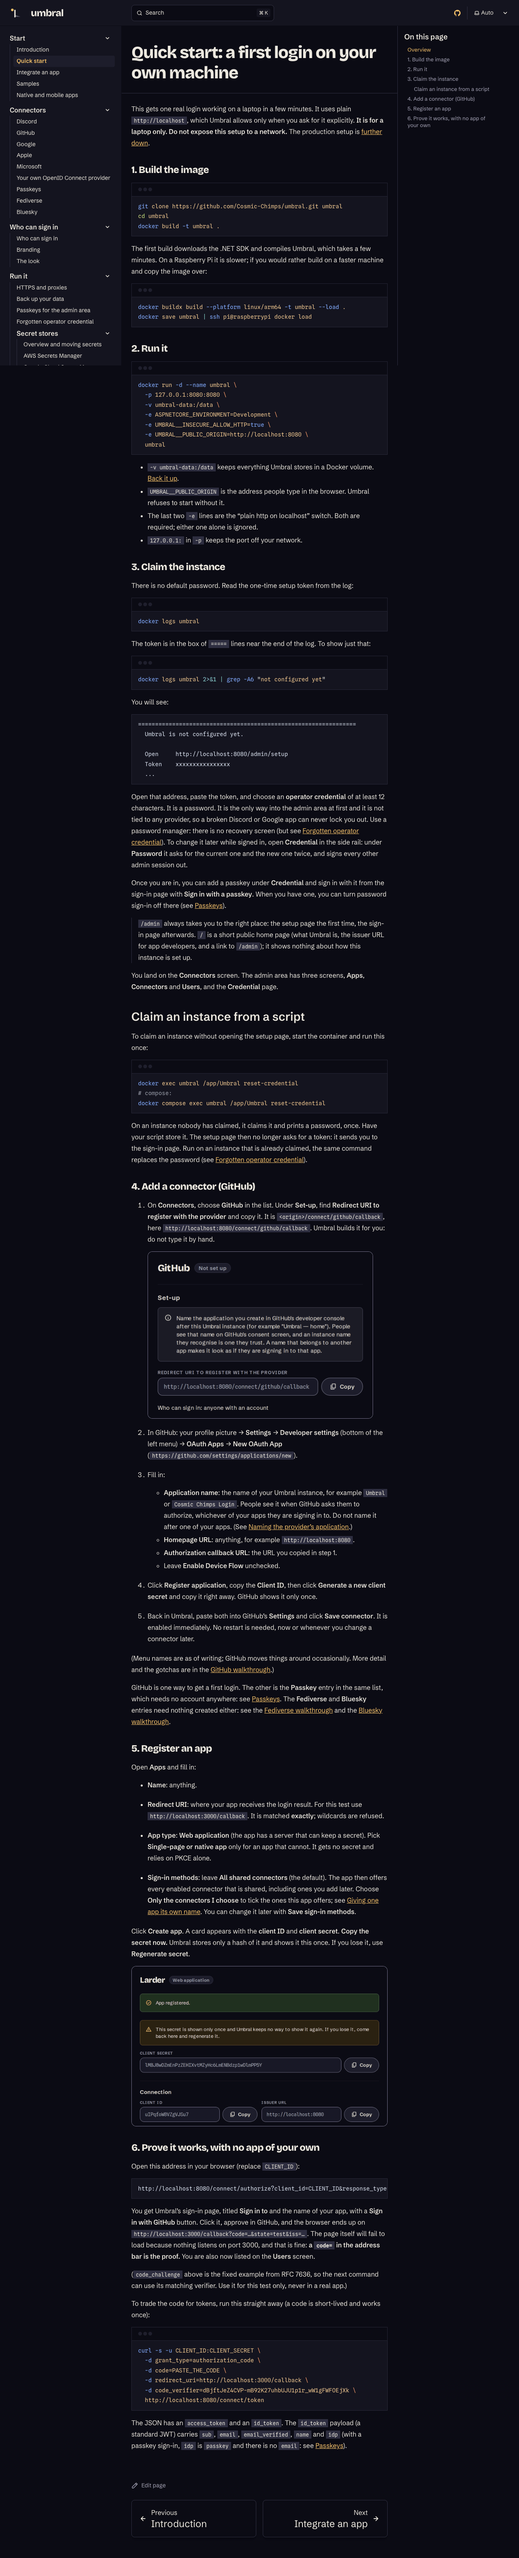
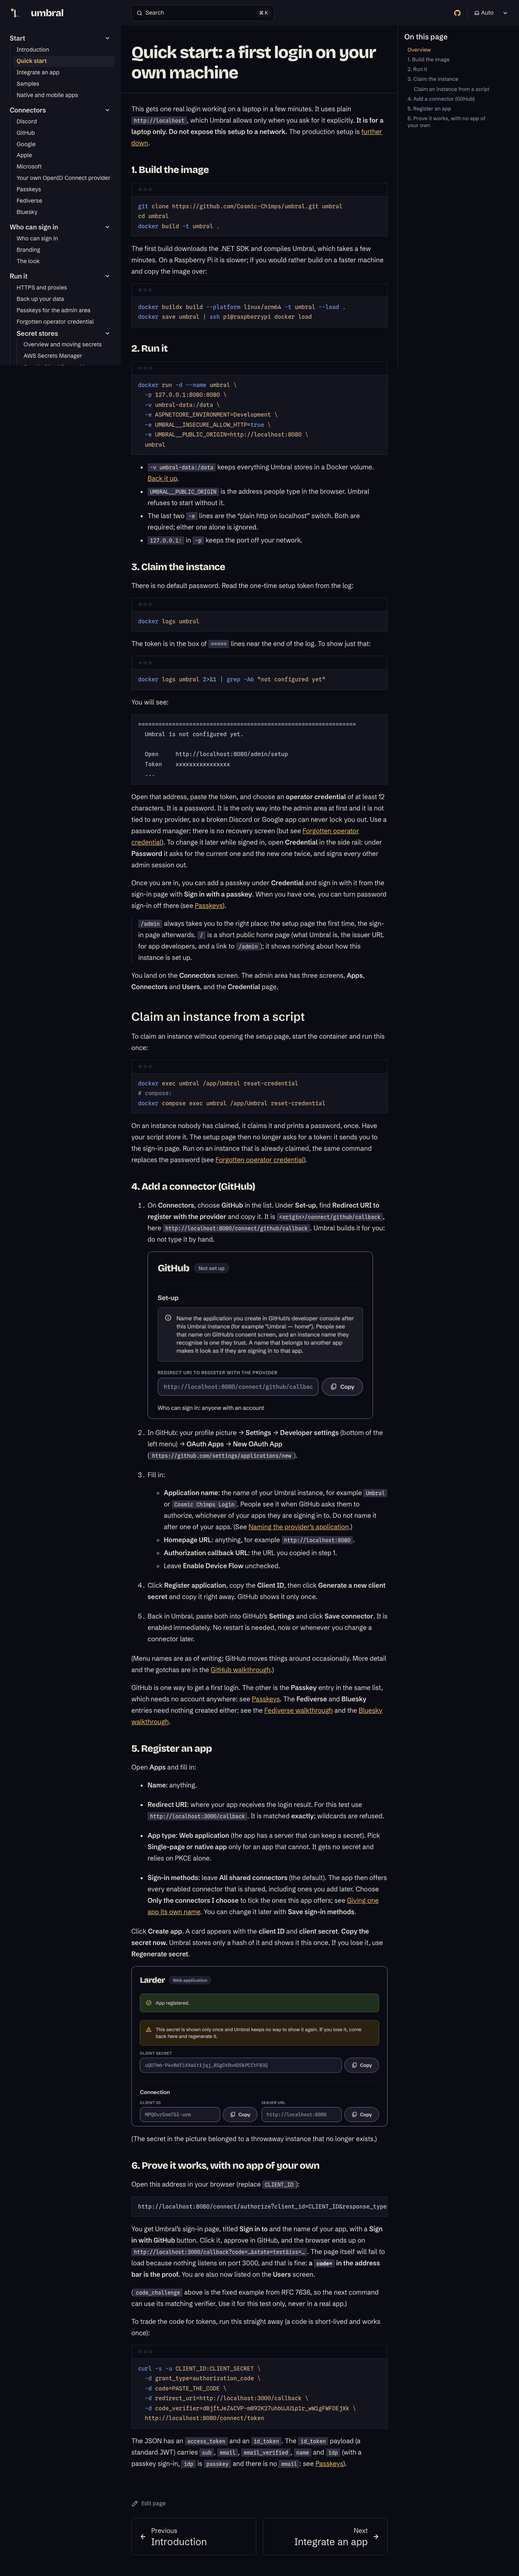
docs(v6pm): the reviews' nits; the sixteen images retaken
Design: Chromium runs with font hinting off, so letters are spaced as on
a real screen; the stand-in logo is a jar on a transparent background;
the README says the pictured secret belonged to a throwaway instance.
Documentation: look.md's picture follows the sentence about the look,
not the side rail; the site README gives commit-then-checkout in order.
Code: the failure screenshot is skipped whenever the page shows the
secret; collect.mjs no longer takes an SVG as an image.

Also commits the design review (review.md, clear to merge, two nits).

diff --git a/.alta/reviews/2026-11-11-docs-screenshots/notes.md b/.alta/reviews/2026-11-11-docs-screenshots/notes.md
@@ -45,7 +45,7 @@ All are captured at twice the pixel density and shown at the `width` of the `<im
   Chrome virtual authenticator, which lands them on **Your passkeys**. So the instance runs with the quick
   start's three settings and nothing else, `UMBRAL__ALLOW_FAKE_CONNECTOR` still appears only in
   `samples/test/docker-compose.yml`, and the script stops if the **Provider** list offers `fake`.
-- **Dark and light for all eight.** The set is 506 KB (budget 1.5 MB; the largest file is 43 KB, limit
+- **Dark and light for all eight.** The set is 609 KB (budget 1.5 MB; the largest file is 55 KB, limit
   200 KB), so no screen had to be one theme only, and a reader on a dark page never gets a light picture.
 - **The theme is the system's, emulated; nothing on the page is edited.** With no `umbral_theme` cookie
   Umbral follows `prefers-color-scheme`, so the script uses Playwright's `emulateMedia`. That switches a page
@@ -83,7 +83,7 @@ All are captured at twice the pixel density and shown at the `width` of the `<im
 | `check-links.py` | `check-links: 454 links in 40 files, all resolve` |
 | `npm run build` in `site/` | `collect: 32 pages … 3 fonts and 16 images copied`; `All internal links are valid`; `check-dist: 55 files read …, nothing requested from another host` |
 | The images appear on the built site | `dist/images/` holds the 16 files; captures of four pages in `site/` here, both themes. |
-| `docs/images/` under 1.5 MB | 506 KB |
+| `docs/images/` under 1.5 MB | 609 KB |
 
 ## Known limits
 
@@ -110,6 +110,29 @@ All are captured at twice the pixel density and shown at the `width` of the `<im
 - **Code (`umbral`):** `capture.mjs` (the walk, the frames, that the secret is never read or logged),
   `run.sh` and the Compose file (teardown, no fake connector), `optimise.mjs`; `collect.mjs` (`imageHref`,
   `endsImageAlt`, the `srcset` rule), `check-dist.mjs` (`checkOwnImage`), `check-links.py` (`srcset`).
+
+## After the reviews (2026-11-15)
+
+All three reviews are clear with no blocking item: design (`review.md`, two nits), documentation
+(`review-docs.md`, `dcc6021`, four nits), code (`code-review.md`, `6486058`, two nits). Taken:
+
+| Nit | What changed |
+| --- | --- |
+| Design 1, uneven letter spacing ("T heme") | `capture.mjs` launches Chromium with `--font-render-hinting=none`; all sixteen images retaken. The set went from 506 KB to 609 KB (more antialiasing tones). |
+| Design 2, the logo reads as a sixth button | The jar is drawn on a transparent background, with an amber lid. |
+| Design, the secret in `app-created` | A line under the picture in the README says the secret belonged to a throwaway instance. |
+| Docs 1, `look.md`'s picture followed the side rail | The first paragraph is split: the look and the mark, the picture, then the operator screens. |
+| Docs 2, the demo's "Try it" line | Nothing to change here. When fzzx step 10 adds the line to the README, it goes after the first paragraph and before this picture. |
+| Docs 3, commit then checkout | `site/README.md` now gives the two steps in order. |
+| Docs 4, the Theme select | Stays a stated limit. |
+| Code N1, the failure screenshot's guard | Skipped when the page holds `[data-secret-once]`, whatever step failed. |
+| Code N2, SVG | Dropped from `IMAGE_FILE` in `collect.mjs`; `site/README.md` says why. |
+
+Left for `umbral-designer`, outside this task (seen by the documentation review): on the passkey step
+**Continue with your passkey** carries the link icon, while **Sign in with a passkey** carries the key.
+
+After these: `run.sh` exit 0, `check-links.py` passes, `npm run build` passes with 16 images copied and
+nothing requested from another host. Design re-check asked on `sign-in-branded-light` and `app-created-dark`.
 
 ## Files here
 

diff --git a/.alta/reviews/2026-11-11-docs-screenshots/review.md b/.alta/reviews/2026-11-11-docs-screenshots/review.md
@@ -1,0 +1,47 @@
+# Design review: the docs screenshots
+
+Task v6pm. Branch `alta/buoyant-taiga-cxt3`, `ea5d6ae..881d768`. Reviewed 2026-11-15 by the
+design reviewer from `notes.md`, three of the sixteen images (`sign-in-branded-light`,
+`app-created-dark`, `fediverse-step-light`) and one of the eight site captures
+(`quick-start-light`). The other images were not opened, and the script was not run.
+
+## Verdict
+
+**Clear to merge. No blocking items; two nits.**
+
+## Your six points
+
+1. **Which screens**: the right eight. Each shows the thing its page is about, and no page
+   carries a picture for decoration.
+2. **Framing**: right. Operator screens cut to the part the text names, ending on an element's
+   edge; the two steps as their card; the sign-in pages whole, which keeps "Secured by Umbral"
+   and the theme control in the picture, the two things `look.md` and `branding.md` talk about.
+3. **The made-up logo**: fine as a stand-in. Nit 2 below.
+4. **Display widths** (640, 720, 556, 448): fine. In `quick-start-light` the two pictures sit
+   inside the text column and read at that size.
+5. **The border and radius on the site**: right; it separates a light picture from a light
+   page without a shadow. On GitHub nothing more is needed: paper against GitHub's white is
+   enough of an edge, and the dark picture has its own.
+6. **`mastodon.social` in the Fediverse step's hint**: leave it. The picture shows the product
+   as it is; the rule against real domains is about what the script types, and it types
+   `@ana@social.example`.
+
+Dark and light for all eight, the theme emulated from the system, and steady states taken
+after a reload: all right. The secret in `app-created` belongs to a throwaway instance; say in
+the README, beside the picture, that it is not a live one, if it does not already.
+
+## Nits
+
+1. **Letter spacing in the captures.** In `sign-in-branded-light` and `app-created-dark` some
+   words are spaced unevenly ("T heme", "reg enerate", "applic ation"): the capture browser is
+   hinting glyph positions to whole pixels. Launch it with font hinting off and subpixel
+   positioning on (Chromium: `--font-render-hinting=none`, and
+   `--enable-font-antialiasing` if needed), and retake. The pictures are the product's face in
+   the README; the type should look as it does on a real screen.
+2. **The stand-in logo is a hard-edged block in the accent's own colour.** Above five buttons
+   of the same orange it reads as a sixth block. Draw the jar on a transparent background (or
+   give the square rounded corners and a colour other than the accent) so it reads as a logo.
+
+## Re-check
+
+`sign-in-branded-light` and `app-created-dark` after the retake. One look.

diff --git a/site/README.md b/site/README.md
@@ -100,8 +100,8 @@ if the **Provider** list offers it.
 A second run gives the same bytes for every screen whose content is the same. Three screens
 change without a change of the UI: `app-created` on every run (the client ID and the secret are
 random), and `your-passkeys` and `operator-credential` when the day does (they show the date
-the passkey was added). So after a run, `git status` lists those files too: commit the files of
-the screens you changed, and put the others back with `git checkout docs/images/`.
+the passkey was added). So after a run, `git status` lists those files too. Commit the files of
+the screens you changed first; then `git checkout docs/images/` puts the others back.
 
 A page shows a screen in both themes with a `<picture>` element, which GitHub and the site both
 follow by the system's theme, and says what the picture shows in its `alt`:
@@ -122,7 +122,8 @@ screen, add its step to the walk and its entry to `FRAMES` in `capture.mjs`, rai
 - A link in a source that does not become a working link on the site: a file that does not exist, an
   anchor that is not a heading. The message is `source:line: target: reason`. A link to a file that is
   not a page (a sample, a spec, `docker-compose.yml`) becomes a link to it on GitHub.
-- An image a page shows (`![alt](path)`, `src`, `srcset`) that is not a file under `docs/images/`.
+- An image a page shows (`![alt](path)`, `src`, `srcset`) that is not a PNG, WebP, JPEG, GIF or AVIF
+  file under `docs/images/` (no SVG: served from the site's own address, it can run script).
   Those images are copied to the site and the page shows the copy, so nothing is loaded from GitHub;
   a plain link to an image under `docs/images/` goes to the copy as well. A `srcset` holds one
   address with no descriptor (no comma, no `2x`).

diff --git a/docs/look.md b/docs/look.md
@@ -2,14 +2,16 @@
 
 Umbral has one look, called Umbra: a warm gold accent on near-black, or on
 paper in the light theme, with the **Gnomon** as its mark (a sundial's upright
-and its shadow). The operator screens have a side rail with the three screens,
-**Apps**, **Connectors** and **Users**, the **Credential** page, and
-**Sign out**; on a narrow screen it stacks above the page.
+and its shadow).
 
 <picture>
   <source media="(prefers-color-scheme: dark)" srcset="images/sign-in-dark.png">
   <img alt="Umbral's sign-in page for an app called Larder: the title Sign in to Larder above five buttons, Sign in with Discord, Fediverse, GitHub, Google and a passkey." src="images/sign-in-light.png" width="640">
 </picture>
+
+The operator screens have a side rail with the three screens, **Apps**,
+**Connectors** and **Users**, the **Credential** page, and **Sign out**; on a
+narrow screen it stacks above the page.
 
 **Two themes, and it follows your system.** By default Umbral is dark or light
 as your operating system or browser says, and changes when it does. To pick one

diff --git a/README.md b/README.md
@@ -291,6 +291,8 @@ this once. If you lose it, use **Regenerate secret**.
   <img alt="The app's pane right after Create app: the notice App registered, a warning that the secret is shown only once, the client secret with a Copy button, and under Connection the client ID and the issuer URL." src="docs/images/app-created-light.png" width="720">
 </picture>
 
+(The secret in the picture belonged to a throwaway instance that no longer exists.)
+
 ### 6. Prove it works, with no app of your own
 
 Open this address in your browser (replace `CLIENT_ID`):
